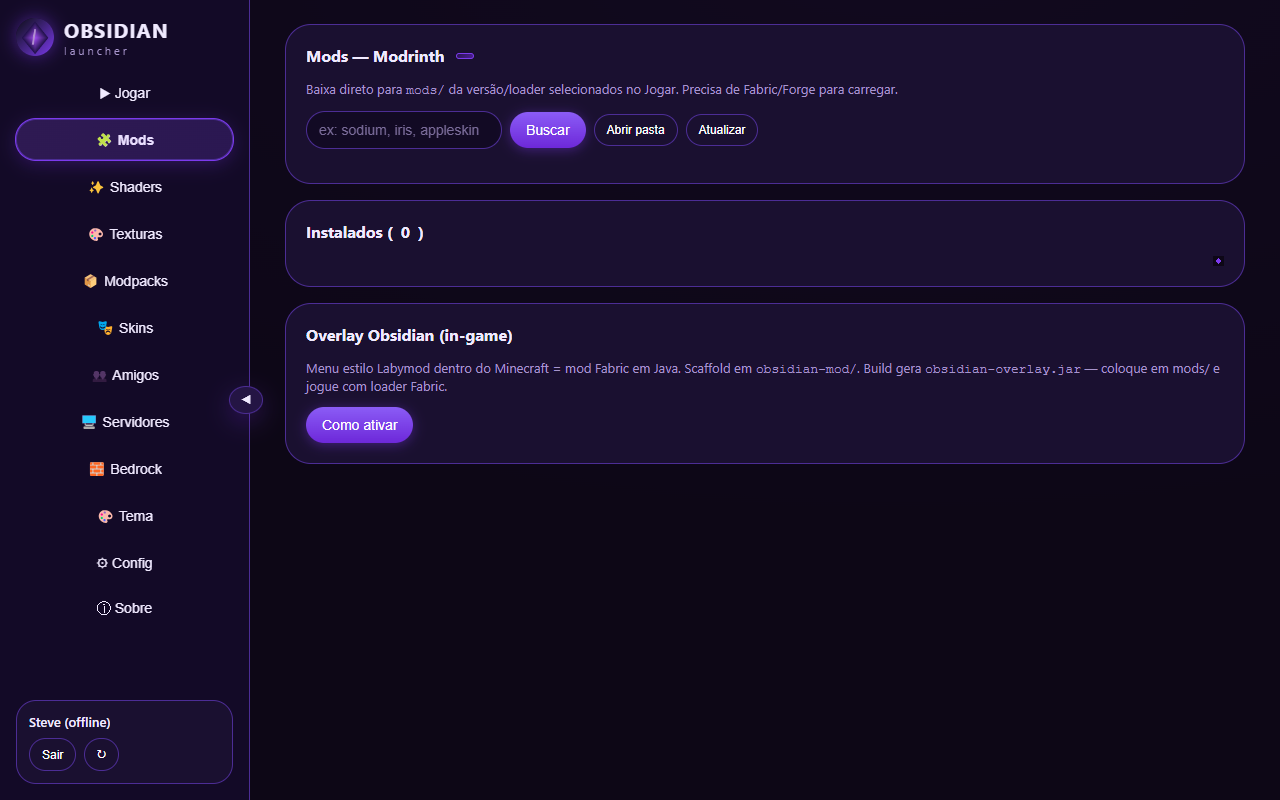
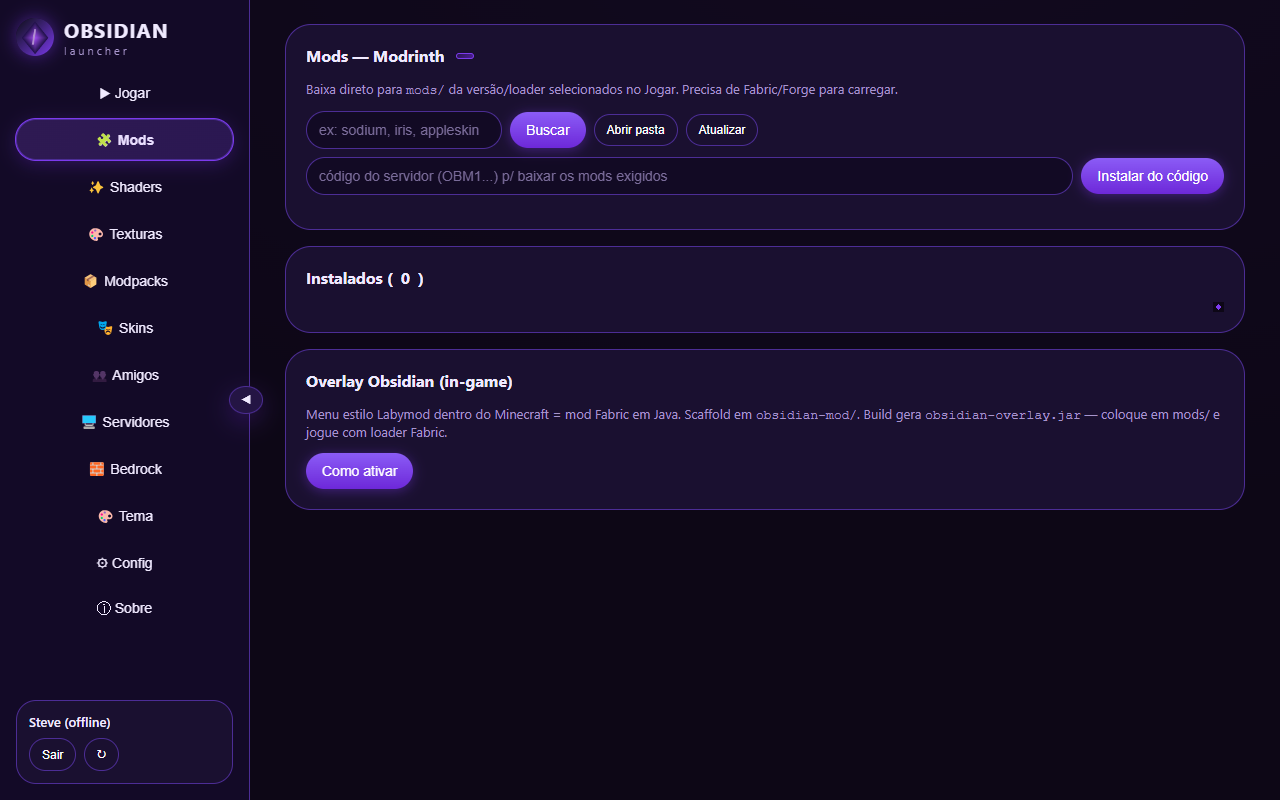
Versao/loader do Jogar salva na hora, nao reseta trocando de aba

diff --git a/renderer/js/pages/play.js b/renderer/js/pages/play.js
@@ -44,7 +44,7 @@ async function loadDashboardData() {
     pageState.settings = settings.status === 'fulfilled' ? settings.value : { ramMin: '2G', ramMax: '4G', javaPath: '', gameDir: '', resolution: { width: 854, height: 480 }, version: '26.3', loader: 'fabric', autoUpdate: true, overlay: true, displayMode: 'window', softwareGL: false };
     
     updateAccountUI(pageState.account);
-    populateVersionSelect(pageState.versions);
+    populateVersionSelect(pageState.versions, pageState.settings?.version);
     updateContextLabels();
     
     // Renderiza cards do dashboard
@@ -61,15 +61,26 @@ async function loadDashboardData() {
 function setupButtons() {
   const versionSel = document.getElementById('version');
   const loaderSel = document.getElementById('loader');
-  
+
   if (versionSel) versionSel.addEventListener('change', () => {
     updateContextLabels();
     saveLastProfile();
+    persistVersionLoader();
   });
   if (loaderSel) loaderSel.addEventListener('change', () => {
     updateContextLabels();
     saveLastProfile();
+    persistVersionLoader();
   });
+}
+
+// A escolha do Jogar vale na hora e é salva: nada mais reseta ao trocar de
+// aba, e o resto (mods, skins, launch) sempre enxerga o valor atual.
+function persistVersionLoader() {
+  const v = document.getElementById('version').value;
+  const l = document.getElementById('loader').value;
+  if (pageState.settings) { pageState.settings.version = v; pageState.settings.loader = l; }
+  API.saveSettings({ version: v, loader: l }).catch(() => {});
 }
 
 function setupVersionLoaderSync() {
@@ -174,7 +185,8 @@ async function loadProfile(profileId) {
   // Salva como último perfil usado
   pageState.settings = { ...pageState.settings, lastProfile: profileId };
   await API.saveSettings({ lastProfile: profileId });
-  
+  persistVersionLoader();
+
   updateContextLabels();
   toast.info('Perfil carregado', profile.name);
 }

diff --git a/renderer/js/utils/ui-helpers.js b/renderer/js/utils/ui-helpers.js
@@ -20,9 +20,12 @@ export function escapeHtml(str) {
 export function populateVersionSelect(versions, currentVersion = null) {
   const select = document.getElementById('version');
   if (!select) return;
-  select.innerHTML = versions.map(v => 
-    `<option ${v === currentVersion ? 'selected' : ''}>${v}</option>`
+  // Preserva a escolha atual ao reconstruir as opções (era isso que resetava)
+  const keep = currentVersion || select.value;
+  select.innerHTML = versions.map(v =>
+    `<option value="${v}" ${v === keep ? 'selected' : ''}>${v}</option>`
   ).join('');
+  if (keep && versions.includes(keep)) select.value = keep;
 }
 
 /**
